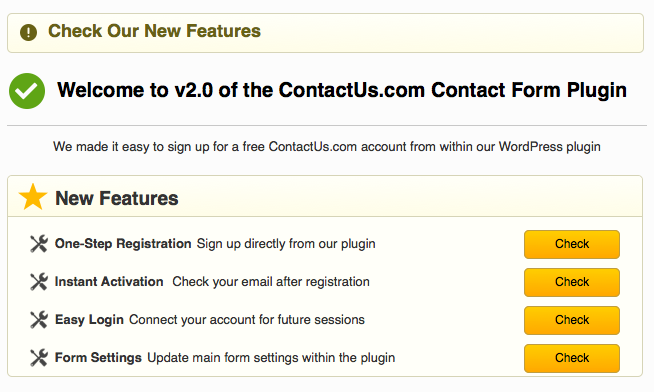
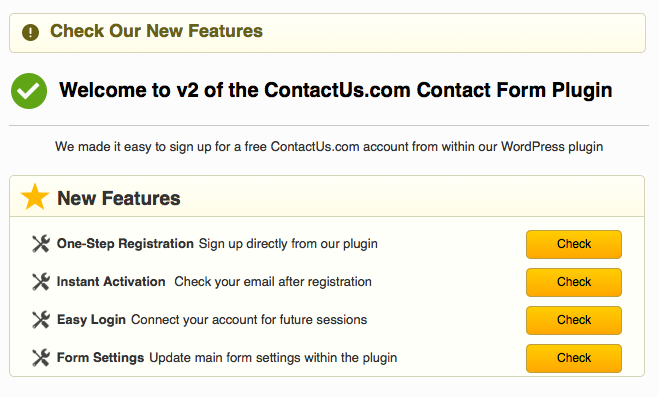
Plugin v. 2.0.1
= 2.0.1 - 30.04.2013 =

* Bug Fix: Form Settings - Inline Form Page Version was not assigning a variable correctly. This has been resolved.

git-svn-id: https://plugins.svn.wordpress.org/contactuscom/trunk@706030 b8457f37-d9ea-0310-8a92-e5e31aec5664

diff --git a/style/cUs_style.css b/style/cUs_style.css
@@ -3,7 +3,7 @@
     Plugin URI:  http://help.contactus.com/entries/23229688-Adding-the-ContactUs-com-Plugin-for-WordPress
     Description: ContactUs.com Plugin for Wordpress.
     Author: ContactUs.Com
-    Version: 2.0
+    Version: 2.0.1
     Author URI: http://contactus.com/
     License: GPLv2 or later
 */

diff --git a/contactus_form.php b/contactus_form.php
@@ -4,7 +4,7 @@
   Plugin URI:  http://help.contactus.com/entries/23229688-Adding-the-ContactUs-com-Plugin-for-WordPress
   Description: ContactUs.com Plugin for Wordpress.
   Author: ContactUs.Com
-  Version: 2.0
+  Version: 2.0.1
   Author URI: http://contactus.com/
   License: GPLv2 or later
  */
@@ -103,7 +103,6 @@ function contactUs_JS_into_head() {
         //include the contactUs.com JS file into the <head> section
         if (strlen($form_key) && $boolTab && $cus_version =='tab'):
             echo '<script type="text/javascript" src="//cdn.contactus.com/cdn/forms/'. $form_key .'/contactus.js"></script>';
-            //echo '<script type="text/javascript" src="//cdn.contactus.com/cdntest/forms/'. $form_key .'/contactus.js"></script>';
         elseif(strlen($userCode) && $boolTab):
              echo $userCode;
         endif;
@@ -132,8 +131,7 @@ function cus_shortcode_handler() {
     $cus_version= $options['cus_version'];
     $form_key   = $options['form_key'];
     if($cus_version == 'inline') :
-        $inlineJS_output = '<div style="min-height: 500px; width: 100%;clear:both;"><script type="text/javascript" src="//cdn.contactus.com/cdn/forms/' . $the_form_id . ',/inline.js"></script></div>';
-        //$inlineJS_output = '<div style="min-height: 500px; width: 100%;clear:both;"><script type="text/javascript" src="//cdn.contactus.com/cdntest/forms/'. $form_key .'/inline.js"></script></div>';
+        $inlineJS_output = '<div style="min-height: 500px; width: 100%;clear:both;"><script type="text/javascript" src="//cdn.contactus.com/cdn/forms/' . $form_key . '/inline.js"></script></div>';
     else:
         $inlineJS_output = '';
     endif;
@@ -597,7 +595,7 @@ function createCustomer($postData){
     $strCURLOPT .= '&Email='.sanitize_email(trim($postData['remail']));
     $strCURLOPT .= '&Password='.trim($postData['pass1']);
     $strCURLOPT .= '&Website='.esc_url(trim($postData['website']));
-    $strCURLOPT .= '&Promotion_Code='.trim($postData['promo_code']);
+    $strCURLOPT .= '&Promotion_Code=WP';
 
     curl_setopt($ch, CURLOPT_URL, $strCURLOPT);
     curl_setopt($ch, CURLOPT_HEADER, 0);

diff --git a/features.php b/features.php
@@ -6,7 +6,7 @@
         <span class="message">Check Our New Features</span>
     </div>
 
-    <h2>Welcome to v2.0 of the ContactUs.com Contact Form Plugin</h2>
+    <h2>Welcome to v2 of the ContactUs.com Contact Form Plugin</h2>
     <p class="sub-title">We made it easy to sign up for a free ContactUs.com account from within our WordPress plugin</p>
 
     <div class="getting_features">
